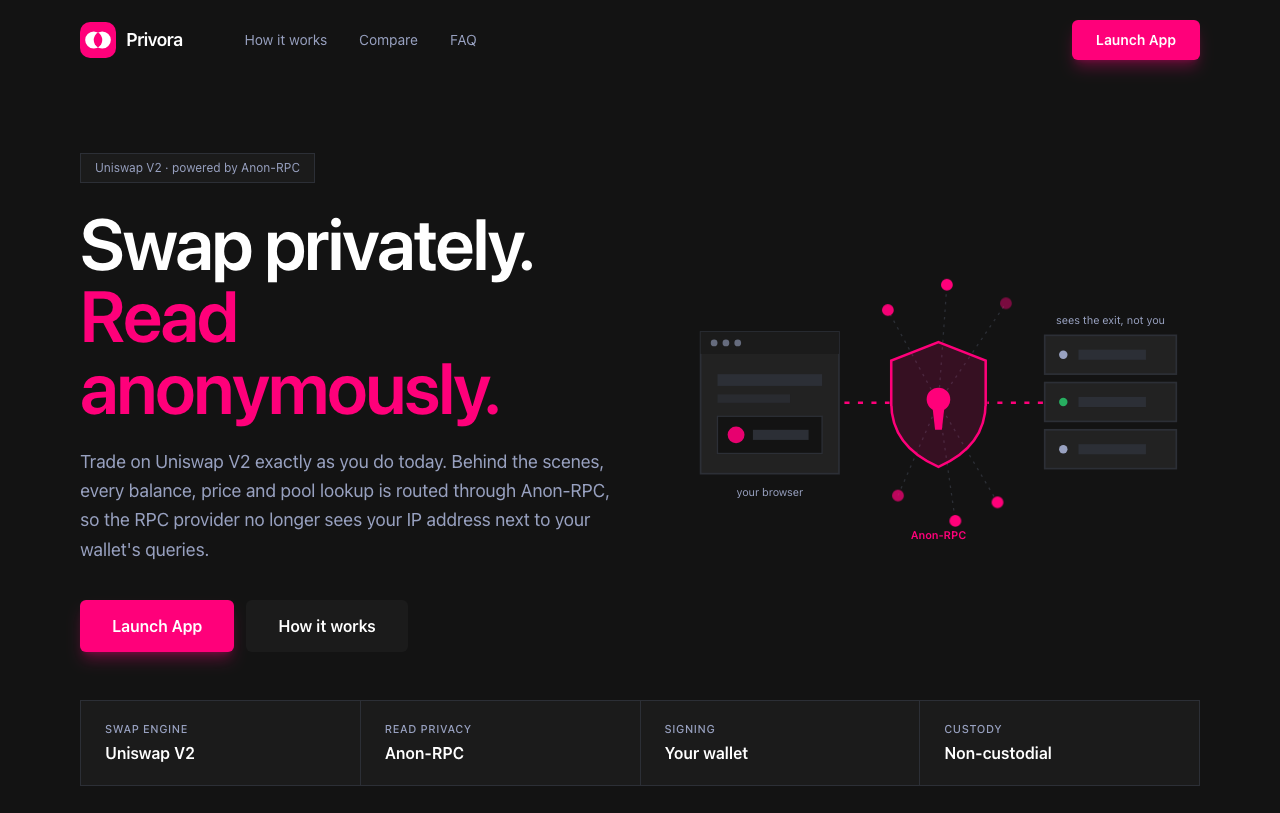
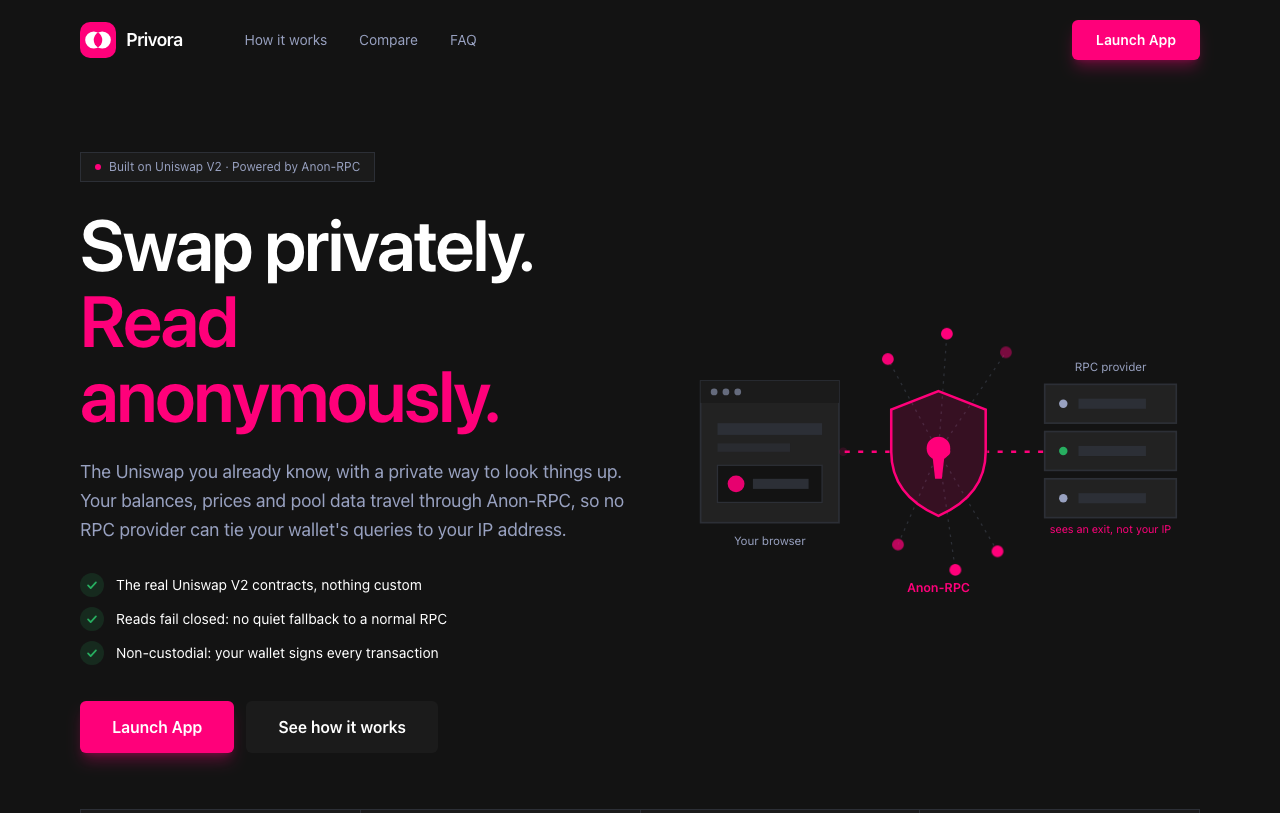
docs: README refreshed for the landing page, dashboard, featured pools and hiding proof; new screenshots; real-Sepolia test navigates in-app

diff --git a/README.md b/README.md
@@ -75,11 +75,14 @@ There is no price API, subgraph or aggregator. Everything is read from the Unisw
 | --- | --- |
 | Quote and minimum received | `Router02.getAmountsOut(amountIn, path)`: direct pair first, or via WETH |
 | Pool reserves, price, LP supply | `Pair.getReserves()` / `totalSupply()` for the pair from `Factory.getPair()` |
-| Pool list on the Pools page | `Factory.allPairs(i)` for the newest pairs, batched with Multicall3 |
+| Featured pools on the Pools page | `Factory.getPair(token, WETH)` for each featured token, batched with Multicall3 |
+| Newest pairs on the Pools page | `Factory.allPairs(i)` for the newest pairs, batched with Multicall3 |
 | Balances and allowances | ERC-20 `balanceOf` / `allowance` (and `eth_getBalance` for ETH) |
 | Token symbol, name, decimals | Read from the token contract, then sanitised |
 
-The default network is **Sepolia**, so the pools are Uniswap V2 test pools with arbitrary liquidity. Mainnet is one environment variable away.
+The default network is **Sepolia**, so the pools are Uniswap V2 test pools with arbitrary liquidity. The five featured tokens (USDC, LINK, DAI, USDT, UNI) were checked onchain to have a V2 pool against WETH with reserves. Mainnet is one environment variable away.
+
+Token logos for well-known tokens are **bundled with the app** (`public/tokens`) and every other token gets an identicon generated from its address, so the page never contacts a logo CDN that could see your IP.
 
 ### How we built the Anon-RPC integration
 
@@ -153,13 +156,14 @@ Design rules we held to: no silent direct fallback, separate read and write tran
 
 | Area | What you get |
 | --- | --- |
-| **Swap** | Validated token selector with onchain address lookup · router quote (direct or via WETH) · price impact · minimum received · 0.3% fee · exact-amount approvals (never unlimited) · ETH↔token and token↔token swaps |
+| **Landing page** | Hero with an animated request-path illustration · how it works · "where each request goes" diagram · what changes for your IP · fail-safe design · FAQ. Square, minimal, custom SVG art |
+| **Dashboard** | Sidebar app shell (bottom tab bar on phones): Swap · Liquidity · Pools · Privacy · Settings, with a live read-privacy status card |
+| **Swap** | Token picker with real logos, popular-token chips and onchain address lookup · router quote (direct or via WETH) · price impact · minimum received · 0.3% fee · exact-amount approvals (never unlimited) · ETH↔token and token↔token swaps · Half / Max |
 | **Fee-on-transfer tokens** | Transactions are simulated first; taxed tokens automatically use the router's `SupportingFeeOnTransferTokens` variants. Doomed transactions never reach your wallet |
 | **Liquidity** | Add (new or existing pool, auto-paired amounts) · remove 25/50/75/100% · LP position and pool share · LP approval |
-| **Pools** | Newest factory pairs · search by token or pair address · live reserves, price, LP supply · deep links into Swap / Add liquidity |
-| **Landing page** | Live status strip · how it works · request-path diagram · typical dapp vs. Privora comparison · FAQ |
-| **Privacy Center** | Worker status · integrity status · per-transport counters · live request log (method, time, transport, success/failure, ms, error) · "Kill worker" fail-closed demo · what is / isn't anonymised |
-| **Settings** | Slippage and deadline, shared across Swap and Liquidity |
+| **Pools** | **Featured pools** for real tokens (USDC, LINK, DAI, USDT, UNI) · newest factory pairs · smart search (symbol, name, token or pool address, optional second token) · live reserves, price, LP supply · token icons · deep links into Swap / Add liquidity |
+| **Privacy Center** | Live read-path diagram · worker status · per-transport counters · average latency · requests by method · filterable request log with Export JSON · "Kill worker" fail-closed demo · what is / isn't anonymised |
+| **Settings** | Slippage presets and custom value, deadline, a worked example, and the built-in safety defaults |
 | **Resilience** | Bounded concurrency, retries and worker self-heal for flaky mixnet exits — always back through Anon-RPC, never direct |
 
 ## Screenshots
@@ -186,12 +190,12 @@ Design rules we held to: no silent direct fallback, separate read and write tran
 
 A 2 to 3 minute walkthrough (full script: [docs/DEMO_SCRIPT.md](docs/DEMO_SCRIPT.md)):
 
-1. **The problem (20s).** A normal dapp sends every balance and quote read from your IP to an RPC company.
-2. **Anon-RPC on (30s).** Open the app. The header shows the worker booting, then "Anon-RPC active". Reads only begin once it is ready.
-3. **Swap (40s).** Connect a wallet on Sepolia, enter an amount, and show the live quote, price impact and minimum received. Approve for the exact amount, then swap.
-4. **Privacy Center (30s).** Show the anonymised-read counter going up while **Direct reads stay at 0**, and the request log (method, transport, time, no parameters).
-5. **Fail-closed (30s).** Click **Kill worker**. Reads fail with a visible error, and the direct counter does not move. Retry or opt in to Standard.
-6. **Honest close (10s).** Transactions are still public onchain. Privora anonymises reads only.
+1. **The problem (20s).** On the landing page: a normal dapp sends every balance and quote read from your IP to an RPC company. Point at the "what changes for your IP" panels.
+2. **Launch App (20s).** Click *Launch App*. The sidebar card shows the worker starting, then "Anon-RPC active". Reads only begin once it is ready.
+3. **Swap (40s).** Connect a wallet on Sepolia, pick a real token such as USDC, enter an amount, and show the live quote, price impact and minimum received (the quote source is the Uniswap V2 router, onchain). Approve for the exact amount, then swap.
+4. **Privacy (30s).** Show the private-read counter going up while **Direct reads stay at 0**, the live read path and the request log (method, route, time, no parameters).
+5. **Fail-closed (30s).** Click **Kill worker**. Reads fail with a visible message, and the direct counter does not move. Restart the worker to recover.
+6. **Honest close (10s).** Transactions are still public onchain. Privora anonymises the reads that come before them.
 
 ## Quick start
 
@@ -202,7 +206,7 @@ git clone https://github.com/ayushsingh82/ethglobalmumbai.git
 cd ethglobalmumbai
 npm install
 cp .env.example .env.local     # optional — defaults work
-npm run dev                    # http://localhost:3200
+npm run dev                    # landing page at http://localhost:3200, app at /swap
 ```
 
 Production: `npm run build && npm start`.
@@ -235,7 +239,7 @@ Contract addresses are centralised in [`src/lib/ethereum/chains.ts`](src/lib/eth
 | `npm test` | Unit tests: V2 math vs. `UniswapV2Library` vectors, settings, fail-closed transport (**zero** `fetch` calls when the worker is down), log never stores parameters |
 | `npm run typecheck` | Strict TypeScript |
 | `npm run build` | Production build |
-| `npm run e2e` | **Real headless Chrome, real Anon-RPC network:** worker boots and verifies · pools and a router quote are read through Anon-RPC · direct reads stay at 0 · Standard mode is labelled direct · killed worker fails closed with no fallback |
+| `npm run e2e` | **Real headless Chrome, real Anon-RPC network:** worker boots and verifies · pools and a router quote are read through Anon-RPC · direct reads stay at 0 and the page makes no request to the RPC host after worker setup · Standard mode is labelled direct · killed worker fails closed with no fallback |
 | `npm run e2e:ui` | **Real headless Chrome:** the landing page and every dashboard page render with no console errors and no horizontal overflow at 1280px and 390px; Launch App, sidebar, mode toggle, settings persistence and the token selector work |
 | `npm run e2e:tx` | **Real UI on a local Sepolia fork (anvil):** swap, exact-amount approve, taxed-token sell, add and remove liquidity — balances/allowances/LP verified onchain |
 | `npm run e2e:sepolia` | **Real Sepolia, real transactions:** the app in Anon-RPC mode while a throwaway test wallet swaps, approves and sells; the Privacy Center must show direct reads = 0 (needs `PRIVORA_TEST_WALLET`, see the script header) |
@@ -250,13 +254,14 @@ Contract addresses are centralised in [`src/lib/ethereum/chains.ts`](src/lib/eth
 src/
   app/(marketing)/        Landing page at /
   app/(app)/              Dashboard (sidebar): /swap · /liquidity · /pools · /privacy · /settings
-  components/             AppShell (sidebar), MarketingNav, WalletButton, TokenIcon, TokenSelect, PoolCard, swap/, liquidity/ …
+  components/             AppShell (sidebar), MarketingNav, WalletButton, ModeToggle, TokenIcon, TokenSelect, PoolCard, art (SVG), swap/, liquidity/ …
   lib/
     anon-rpc/             manager.ts (worker lifecycle · rpcRead choke point · request log) · networks.ts
     ethereum/             chains.ts · read-client.ts (viem on rpcRead) · wallet.ts (write path) · tx.ts
     uniswap/              abis.ts · pricing.ts (V2 math) · pools.ts (Multicall3-batched discovery)
-    hooks.ts · tokens.ts · settings.ts
-scripts/                  e2e-anon.mts · e2e-ui.mts · e2e-tx.mts · lib/cdp.mts (dependency-free Chrome driver)
+    hooks.ts · tokens.ts · settings.ts · errors.ts
+scripts/                  e2e-anon.mts · e2e-ui.mts · e2e-tx.mts · e2e-sepolia.mts · screenshots.mts · lib/cdp.mts (dependency-free Chrome driver)
+public/tokens/            bundled token logos (served from the app's own origin)
 docs/                     audit · Anon-RPC integration · demo script · test report · images
 ```
 
@@ -265,6 +270,7 @@ docs/                     audit · Anon-RPC integration · demo script · test r
 - **No secrets.** Nothing sensitive is read or stored; all env vars are public config. No private keys in the repo (the e2e script uses anvil's public default dev account on a local fork only).
 - **Approvals are exact-amount**, never unlimited.
 - **Simulate before send:** swaps and removals are `eth_call`-simulated first, so reverts never cost gas.
+- **No third-party requests from the page:** fonts are system fonts and token logos are bundled, so loading the app contacts only its own host. After the one-time worker setup, the page sends **no** request to the RPC host (checked from the browser's own resource log by `npm run e2e`).
 - **Token metadata is untrusted:** read from the contract, sanitised, and non-ERC-20 addresses are rejected. Always verify the address, not the symbol.
 - **The log is safe by construction:** `{id, ts, method, transport, ok, ms, error}` only — no params, addresses, URLs or keys (unit-tested).
 - **What Anon-RPC does not protect:** your onchain address and transactions, your wallet extension's own RPC traffic, timing/behavioural correlation, a compromised exit, and the page host seeing your IP when you load the app.
@@ -273,7 +279,7 @@ docs/                     audit · Anon-RPC integration · demo script · test r
 
 - Public Anon-RPC networks are experimental: seconds of latency per request, and exits can be unavailable (Nox has few TLS-capable exits). Privora retries and self-heals but can still fail — visibly, with Retry.
 - Writes and the wallet's own RPC are **not** anonymised; the one-time worker bootstrap read and the page load are direct. Both are shown in the Privacy Center.
-- Wallet-signed flows are tested on a local Sepolia fork with a stub wallet — not with a real wallet extension or a public network. ERC-20↔ERC-20 swaps are implemented but not covered by the tx e2e.
+- Wallet-signed flows are tested with a stub wallet, not a real wallet extension: on a local Sepolia fork (swap, approve, taxed-token sell, add and remove liquidity) and on real Sepolia (swap and exact-amount approve + sell of USDC through Anon-RPC). ERC-20↔ERC-20 swaps are implemented but not covered by a transaction test.
 - Multi-hop routing is limited to direct and via-WETH.
 - Sepolia Uniswap V2 pools are test pools with arbitrary liquidity.
 
